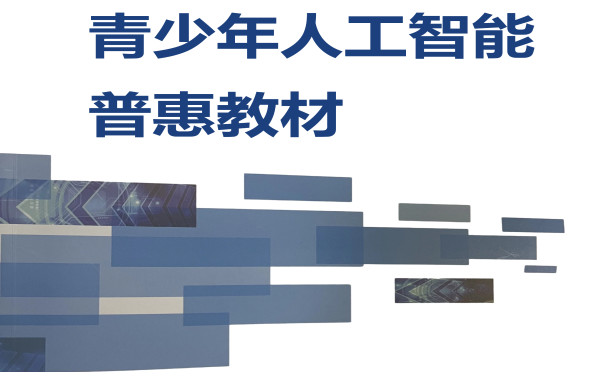
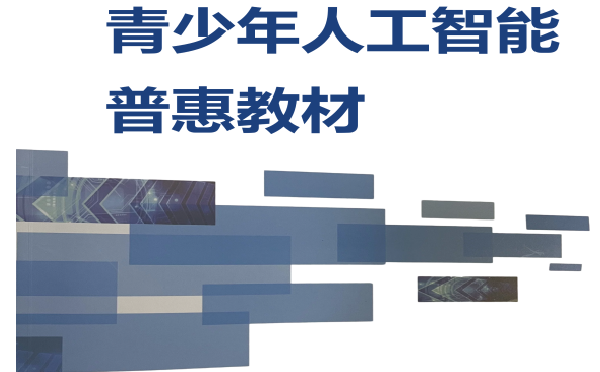
修改尺寸不合适的图片

diff --git a/extensions/arduino/kit/QHRobotMakeStart/index.js b/extensions/arduino/kit/QHRobotMakeStart/index.js
@@ -1,5 +1,5 @@
 const QDPRobotMakeStart = formatMessage => ({
-    name: 'QDP',                //显示在扩展选择界面的名字
+    name: 'MakeStart',                //显示在扩展选择界面的名字
     extensionId: 'QDPRobotMakeStart',         //扩展的唯一ID
     version: '1.0.0',             //显示在扩展选择界面的版本号
     type: 'arduino',              //标识对此插件的处置方式
